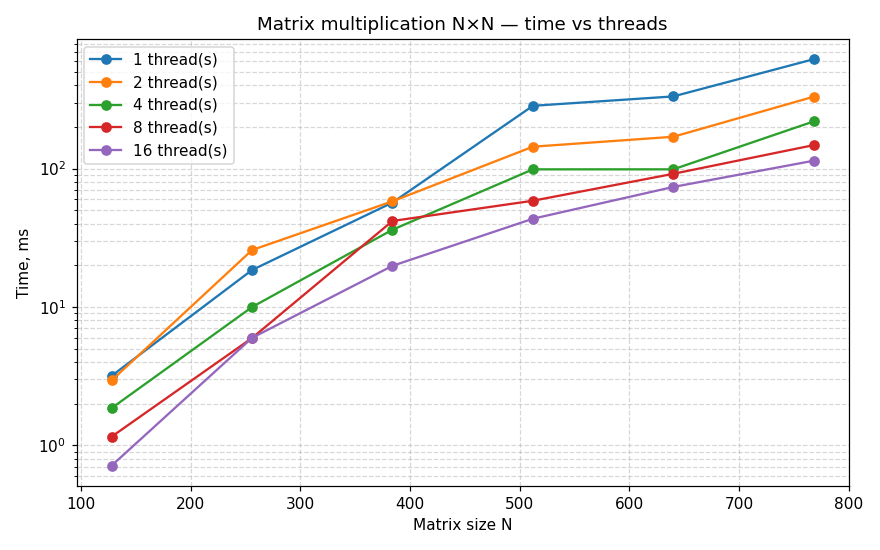
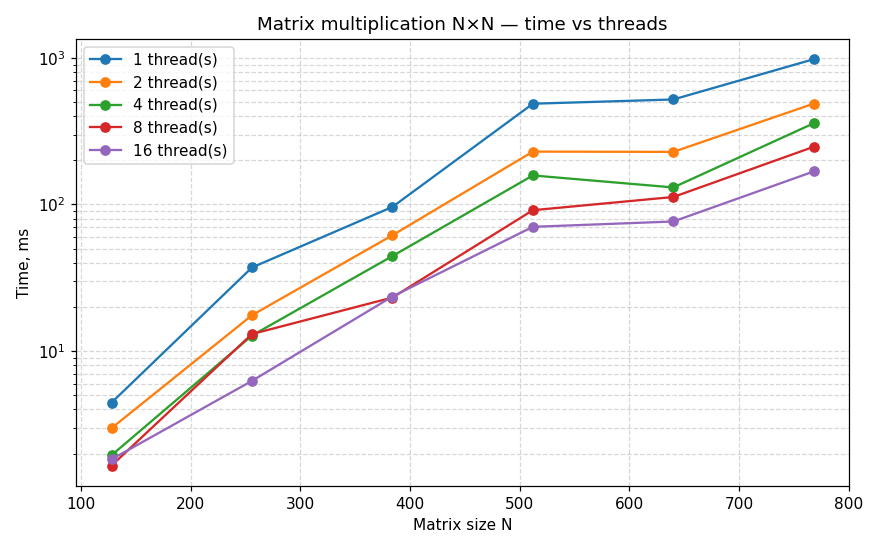
docs(lab-16): add root Makefile dispatcher and screenshot placeholders
Single Makefile in the lab root forwards to each grade-N/Makefile and
adds a 'benchmark' alias for grade-4/benchmark.py. threads.md gets two
extra image placeholders (chat output, deadlock screenshot) which the
user will fill in. grade-4 Makefile no longer wipes benchmark.{csv,png}
on 'make clean' — those are kept artifacts; use 'make distclean' to
drop them.

Changed region(s): [[0.0307, 0.0618, 0.9511, 0.8655], [0.7977, 0.5564, 0.8591, 0.5873], [0.6443, 0.5564, 0.675, 0.5873]]

diff --git a/lab-16/threads.md b/lab-16/threads.md
@@ -115,6 +115,8 @@ server #2 got: [Client 1] message 1
 --- main: done ---
 ```
 
+![Запуск chat](grade-5/chat.png)
+
 ---
 
 ## ★ Обедающие философы
@@ -143,6 +145,10 @@ $ tail -2 /tmp/p.log
 Philosopher 3 is done eating.
 Philosopher 0 is done eating.
 ```
+
+Воспроизводимый дедлок исходной версии (зависает и не печатает финальные строки):
+
+![Deadlock](grade-star/deadlock.png)
 
 ---
 